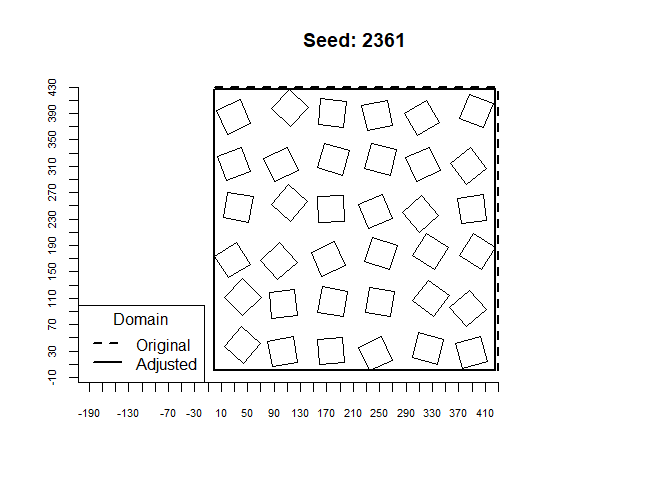
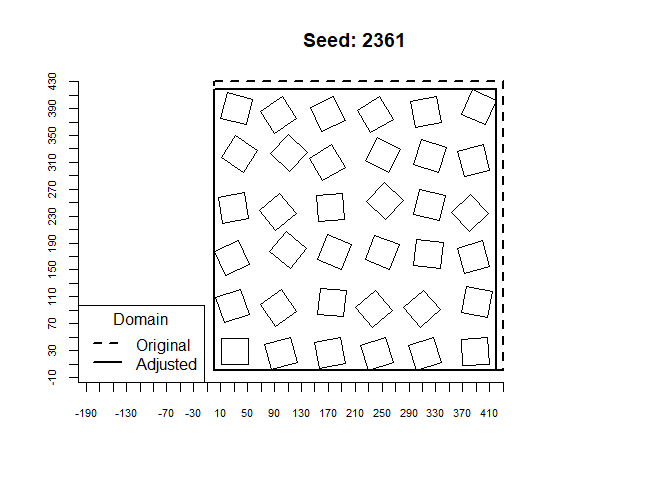
rearrange params and add outputs to params. fix seed val in params

diff --git a/README.md b/README.md
@@ -84,23 +84,22 @@ buildDistribution <- createBuildingDistribution(nBuildings = nBuildings,
 names(buildDistribution)
 ```
 
-    ## [1] "polygons"     "df"           "nIters"       "seed"         "domainExtent"
-    ## [6] "newPAI"       "params"
+    ## [1] "polygons" "df"       "params"
 
 ## Polygons
 
 ``` r
 polygonData <- buildDistribution$polygons
 #the new domain will be slightly different
-newDomainExtent <- bbox(buildDistribution$polygons)
+newDomainExtent <- buildDistribution$params$domainExtent
 
 plot(polygonData, main = paste("Seed:", seedVal))
 axis(1, at = seq(-DART_XorY_m, DART_XorY_m, by = 20), cex.axis = 0.7)
 axis(2, at = seq(-DART_XorY_m, DART_XorY_m, by = 20), cex.axis = 0.7)
 rect(xleft = 0, ybottom = 0, xright = newDomainExtent["x", "max"], 
      ytop = newDomainExtent["y", "max"], lwd = 2)
-rect(xleft = 0, ybottom = 0, xright = 430, 
-     ytop = 430, lwd = 2, lty = 2)
+rect(xleft = 0, ybottom = 0, xright = buildDistribution$params$DART_XorY_m, 
+     ytop = buildDistribution$params$DART_XorY_m, lwd = 2, lty = 2)
 legend("bottomleft", legend = c("Original", "Adjusted"), lty = c(2, 1), lwd = 2, ncol = 1, title = "Domain")
 ```
 
@@ -111,7 +110,7 @@ actualPAI <- sum(area(polygonData)) / (newDomainExtent["x", "max"] * newDomainEx
 print(paste("desired PAI:",lambda_p, "actual PAI:", actualPAI))
 ```
 
-    ## [1] "desired PAI: 0.3 actual PAI: 0.306258745518674"
+    ## [1] "desired PAI: 0.3 actual PAI: 0.316214074630423"
 
 ## Data frame
 
@@ -120,13 +119,13 @@ DARTdfData <- buildDistribution$df
 head(DARTdfData)
 ```
 
-    ##   objInd        x         y z   Xscale   Yscale   Zscale Xrot Yrot       Zrot
-    ## 1      0 358.6264  44.12819 0 19.62672 19.62672 19.46556    0    0 318.332834
-    ## 2      0 368.9335 105.48780 0 19.62672 19.62672 14.69256    0    0  10.107818
-    ## 3      0 367.7981 178.28988 0 19.62672 19.62672 16.04018    0    0   4.404305
-    ## 4      0 371.8458 245.90878 0 19.62672 19.62672 21.80902    0    0  24.737295
-    ## 5      0 364.0309 325.39034 0 19.62672 19.62672 15.69572    0    0 345.481068
-    ## 6      0 370.0233 391.06467 0 19.62672 19.62672 18.43375    0    0  15.582118
+    ##   objInd        x        y z   Xscale   Yscale   Zscale Xrot Yrot       Zrot
+    ## 1      0 362.9796  35.8949 0 19.62672 19.62672 15.02153    0    0 359.690732
+    ## 2      0 366.1377 104.4035 0 19.62672 19.62672 14.29025    0    0  15.554447
+    ## 3      0 365.0435 177.1644 0 19.62672 19.62672 13.57421    0    0  10.058062
+    ## 4      0 366.7487 247.1258 0 19.62672 19.62672 13.63854    0    0  18.623646
+    ## 5      0 366.9071 318.6341 0 19.62672 19.62672 15.38805    0    0  19.419188
+    ## 6      0 363.6416 393.5663 0 19.62672 19.62672 10.49638    0    0   3.015825
 
 ## Write data
 
@@ -135,6 +134,11 @@ oDir <- getwd()
 unlink("sampleData", recursive = TRUE)
 #set fID to give manual file ID, else will give random string
 oDir_ID <- writebuildDistribution(buildDistribution, oDir, fID = "sampleData")
+```
+
+    ## Warning: package 'yaml' was built under R version 3.5.3
+
+``` r
 list.files(oDir_ID)
 ```
 
@@ -154,17 +158,17 @@ samplePerms <- expand.grid(nBuildings = seq(20, 100, by = 40),
 library(foreach)
 ```
 
-    ## Warning: package 'foreach' was built under R version 3.6.3
+    ## Warning: package 'foreach' was built under R version 3.5.3
 
 ``` r
 library(doParallel)
 ```
 
-    ## Warning: package 'doParallel' was built under R version 3.6.3
+    ## Warning: package 'doParallel' was built under R version 3.5.3
 
     ## Loading required package: iterators
 
-    ## Warning: package 'iterators' was built under R version 3.6.3
+    ## Warning: package 'iterators' was built under R version 3.5.3
 
     ## Loading required package: parallel
 
@@ -188,9 +192,9 @@ stopCluster(cl)
 isFailedSim <- sapply(out, is.null)
 out_filtered <- out[which(!isFailedSim)]
 
-finalPAI <- unlist(lapply(out_filtered, function(x) x$newPAI))
+finalPAI <- unlist(lapply(out_filtered, function(x) x$params$newPAI))
 expectedPAI <- samplePerms$lambda_p[which(!isFailedSim)]
-nIters <- sapply(out_filtered, function(x) x$nIters)
+nIters <- sapply(out_filtered, function(x) x$params$iters)
 plot(expectedPAI, finalPAI, pch = 20)
 abline(0, 1, col = "red")
 ```
@@ -201,4 +205,4 @@ abline(0, 1, col = "red")
 paste("MAE:", mean(abs(finalPAI - expectedPAI)))
 ```
 
-    ## [1] "MAE: 0.0271638994384761"
+    ## [1] "MAE: 0.0269152382016592"
